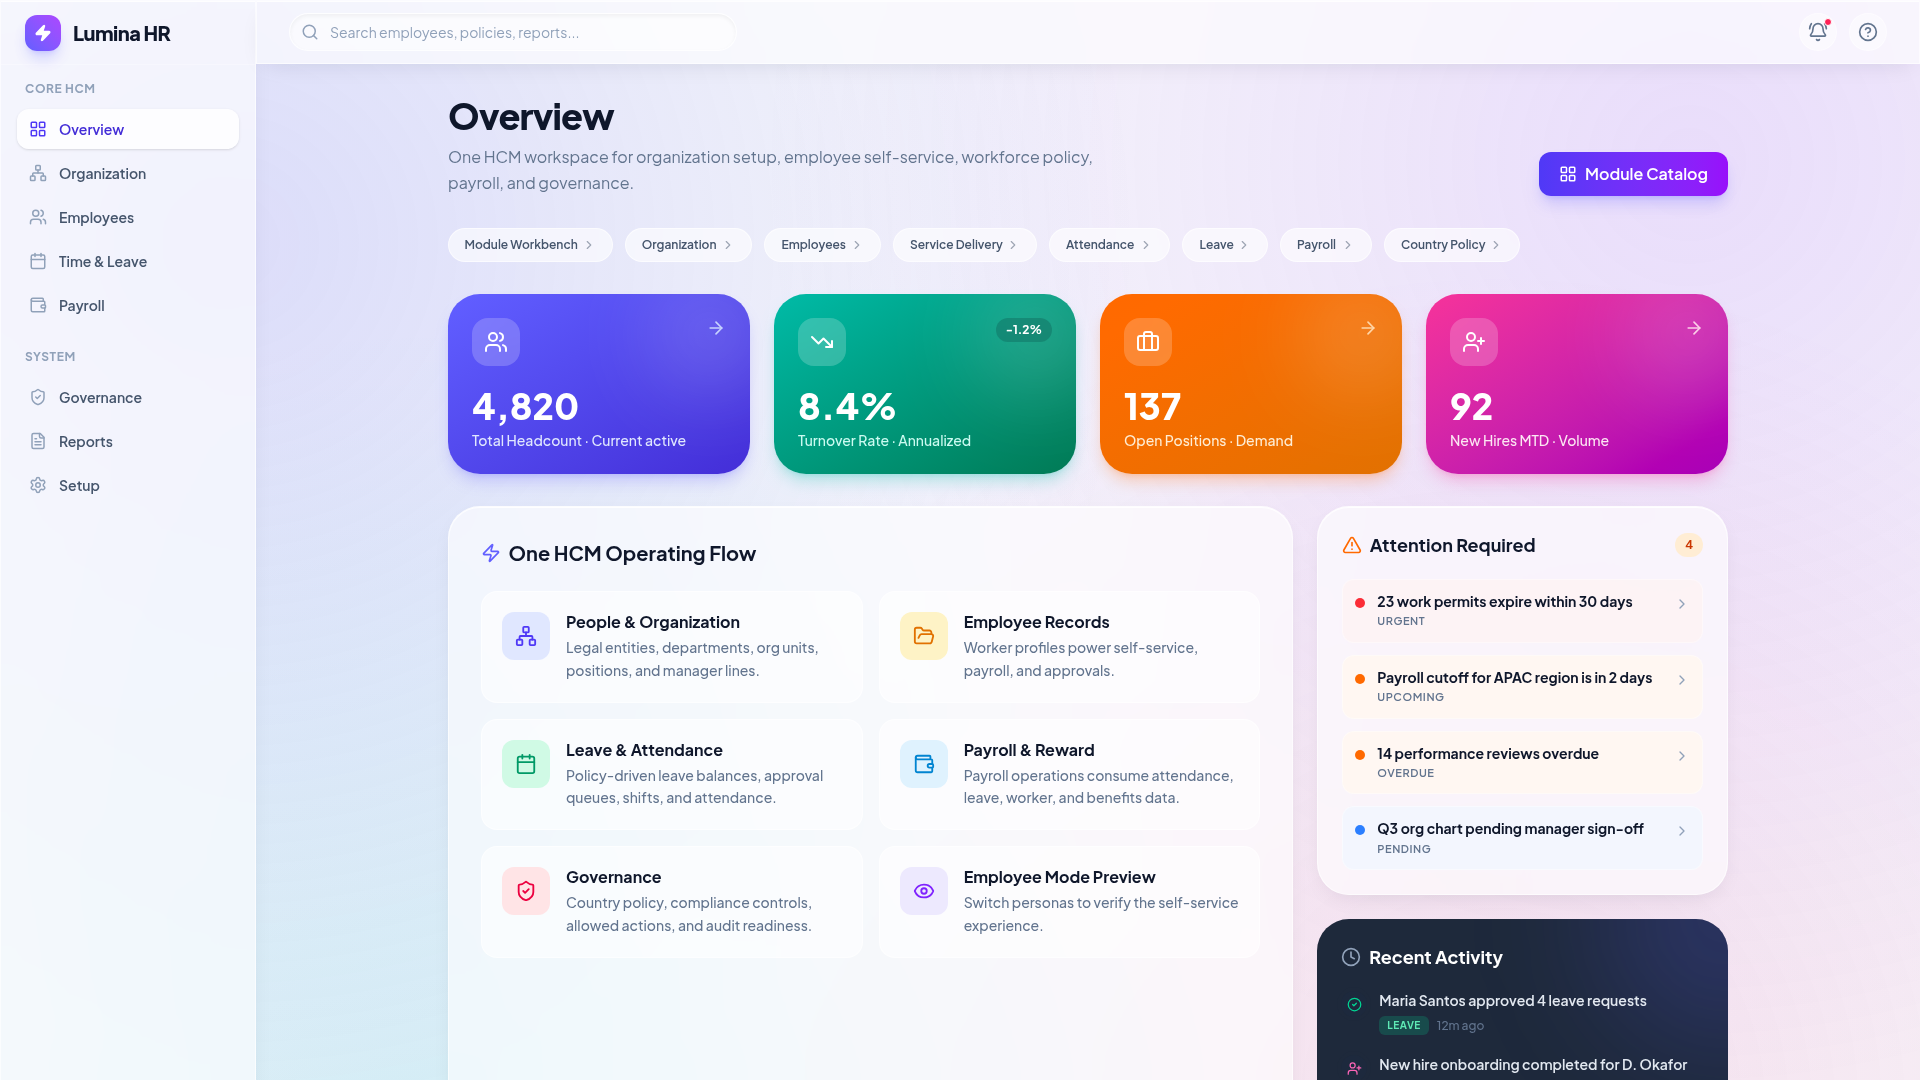
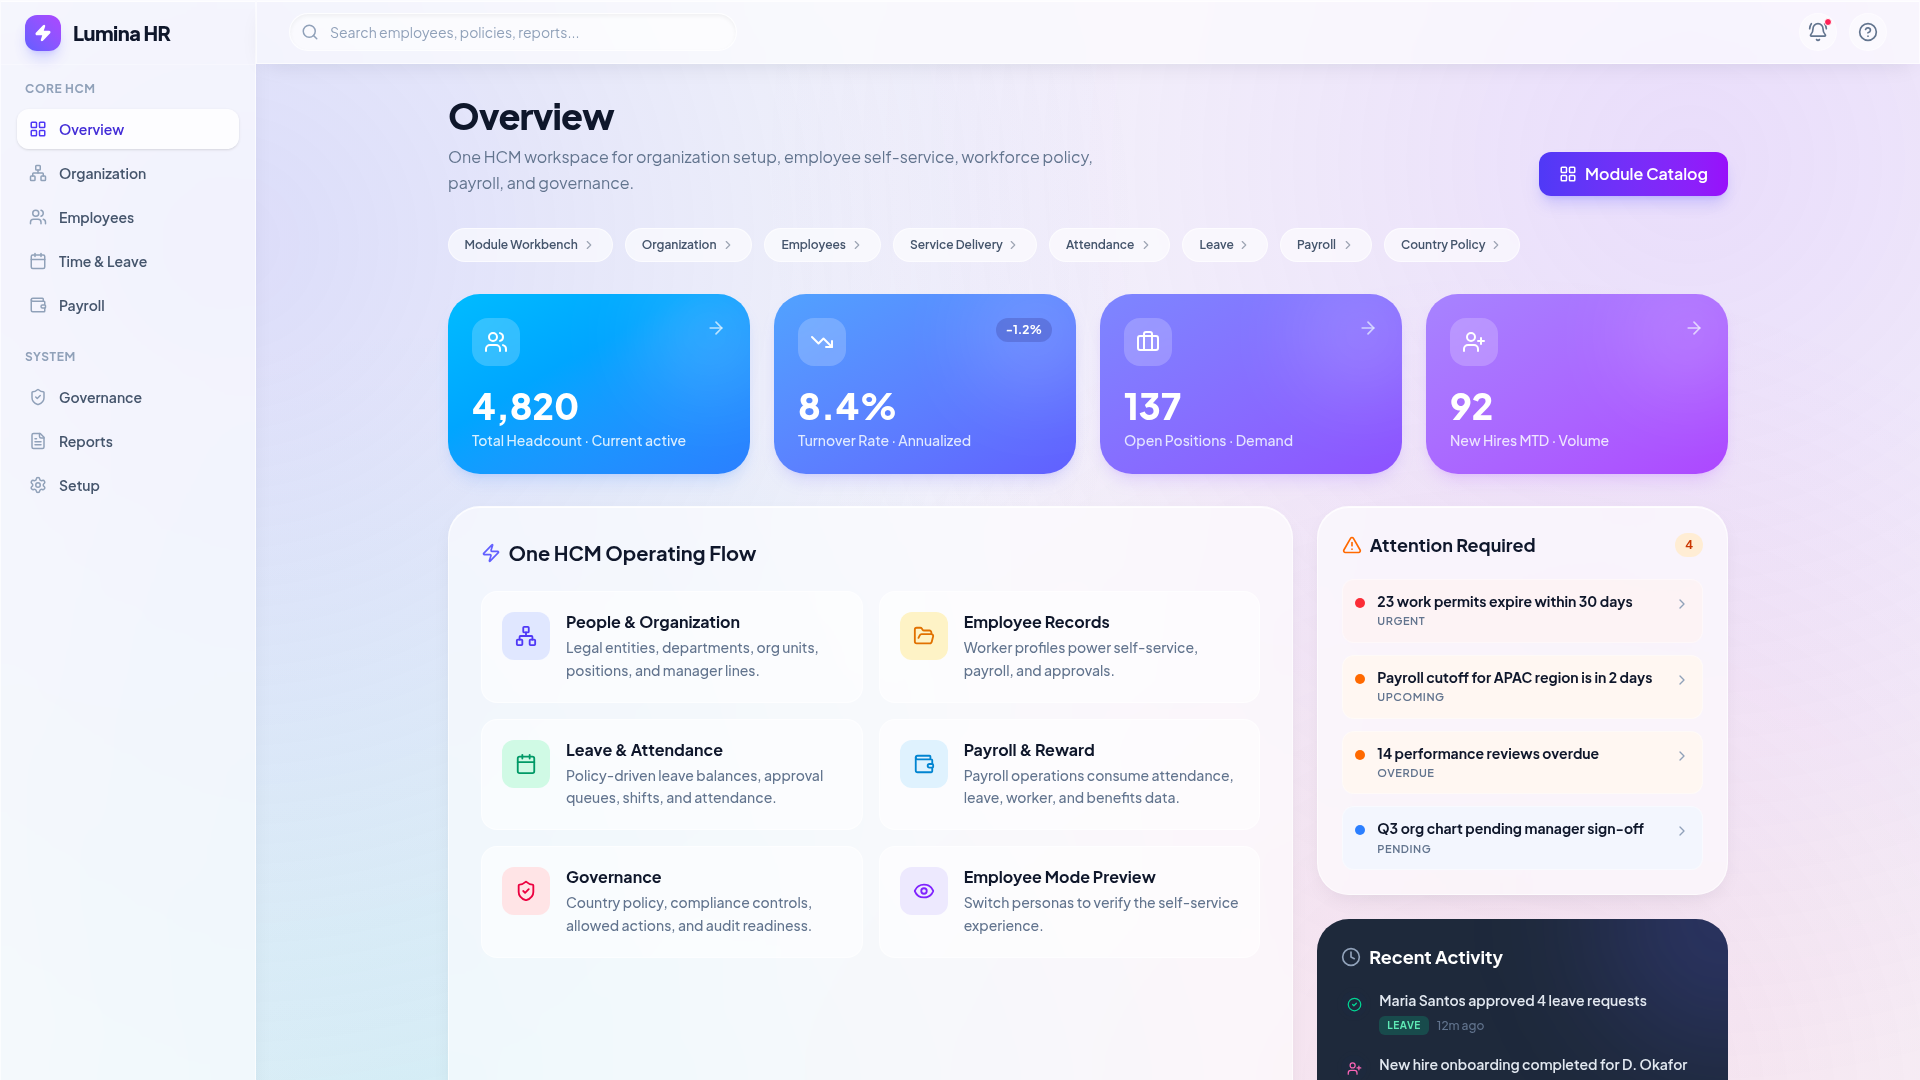
Soften the dashboard's color palette for a more eye-friendly look
Update the color gradients and text colors for the KPI tiles in the Fusion dashboard to use a more harmonious and less saturated palette.

Replit-Commit-Author: Agent
Replit-Commit-Session-Id: 4e185bfa-7984-477e-87ea-a35de27cbb4c
Replit-Commit-Checkpoint-Type: full_checkpoint
Replit-Commit-Event-Id: 5c5f2250-ea1b-4446-b691-bfeea552a87b
Replit-Commit-Screenshot-Url: https://storage.googleapis.com/screenshot-production-us-central1/4ba3be44-b2b7-437a-b9c0-b3eb791af892/4e185bfa-7984-477e-87ea-a35de27cbb4c/UuCX2g5
Replit-Helium-Checkpoint-Created: true

Changed region(s): [[0.2188, 0.275, 0.9062, 0.4583]]

diff --git a/artifacts/mockup-sandbox/src/components/mockups/hr-dashboard/Fusion.tsx b/artifacts/mockup-sandbox/src/components/mockups/hr-dashboard/Fusion.tsx
@@ -213,67 +213,67 @@ export function Fusion() {
             {/* Vivid bento KPI tiles (Bento) */}
             <div className="grid grid-cols-1 md:grid-cols-2 xl:grid-cols-4 gap-6">
               {/* KPI 1 */}
-              <div className="bg-gradient-to-br from-indigo-500 to-indigo-700 text-white rounded-[2rem] p-6 fusion-hover flex flex-col justify-between h-[180px] shadow-lg shadow-indigo-500/25 relative overflow-hidden group">
+              <div className="bg-gradient-to-br from-sky-400 to-blue-500 text-white rounded-[2rem] p-6 fusion-hover flex flex-col justify-between h-[180px] shadow-lg shadow-blue-500/15 relative overflow-hidden group">
                 <div className="absolute -right-6 -top-6 w-32 h-32 bg-white/15 rounded-full blur-2xl group-hover:scale-150 transition-transform duration-500" />
                 <div className="flex justify-between items-start relative z-10">
                   <div className="p-3 bg-white/20 rounded-2xl backdrop-blur-sm">
                     <Users size={24} />
                   </div>
-                  <ArrowRight size={20} className="text-indigo-200" />
+                  <ArrowRight size={20} className="text-sky-100/80" />
                 </div>
                 <div className="relative z-10">
                   <div className="text-4xl font-extrabold mb-1">4,820</div>
-                  <div className="text-indigo-100 text-sm font-medium">
+                  <div className="text-sky-50/90 text-sm font-medium">
                     Total Headcount · Current active
                   </div>
                 </div>
               </div>
               {/* KPI 2 */}
-              <div className="bg-gradient-to-br from-teal-500 to-emerald-700 text-white rounded-[2rem] p-6 fusion-hover flex flex-col justify-between h-[180px] shadow-lg shadow-teal-500/25 relative overflow-hidden group">
+              <div className="bg-gradient-to-br from-blue-400 to-indigo-500 text-white rounded-[2rem] p-6 fusion-hover flex flex-col justify-between h-[180px] shadow-lg shadow-indigo-500/15 relative overflow-hidden group">
                 <div className="absolute -right-6 -top-6 w-32 h-32 bg-white/15 rounded-full blur-2xl group-hover:scale-150 transition-transform duration-500" />
                 <div className="flex justify-between items-start relative z-10">
                   <div className="p-3 bg-white/20 rounded-2xl backdrop-blur-sm">
                     <TrendingDown size={24} />
                   </div>
-                  <div className="px-2.5 py-1 bg-teal-900/30 rounded-full text-xs font-bold backdrop-blur-sm">
+                  <div className="px-2.5 py-1 bg-indigo-900/25 rounded-full text-xs font-bold backdrop-blur-sm">
                     -1.2%
                   </div>
                 </div>
                 <div className="relative z-10">
                   <div className="text-4xl font-extrabold mb-1">8.4%</div>
-                  <div className="text-teal-100 text-sm font-medium">
+                  <div className="text-blue-50/90 text-sm font-medium">
                     Turnover Rate · Annualized
                   </div>
                 </div>
               </div>
               {/* KPI 3 */}
-              <div className="bg-gradient-to-br from-orange-500 to-amber-600 text-white rounded-[2rem] p-6 fusion-hover flex flex-col justify-between h-[180px] shadow-lg shadow-orange-500/25 relative overflow-hidden group">
+              <div className="bg-gradient-to-br from-indigo-400 to-violet-500 text-white rounded-[2rem] p-6 fusion-hover flex flex-col justify-between h-[180px] shadow-lg shadow-violet-500/15 relative overflow-hidden group">
                 <div className="absolute -right-6 -top-6 w-32 h-32 bg-white/15 rounded-full blur-2xl group-hover:scale-150 transition-transform duration-500" />
                 <div className="flex justify-between items-start relative z-10">
                   <div className="p-3 bg-white/20 rounded-2xl backdrop-blur-sm">
                     <Briefcase size={24} />
                   </div>
-                  <ArrowRight size={20} className="text-orange-200" />
+                  <ArrowRight size={20} className="text-indigo-100/80" />
                 </div>
                 <div className="relative z-10">
                   <div className="text-4xl font-extrabold mb-1">137</div>
-                  <div className="text-orange-100 text-sm font-medium">
+                  <div className="text-indigo-50/90 text-sm font-medium">
                     Open Positions · Demand
                   </div>
                 </div>
               </div>
               {/* KPI 4 */}
-              <div className="bg-gradient-to-br from-pink-500 to-fuchsia-700 text-white rounded-[2rem] p-6 fusion-hover flex flex-col justify-between h-[180px] shadow-lg shadow-pink-500/25 relative overflow-hidden group">
+              <div className="bg-gradient-to-br from-violet-400 to-purple-500 text-white rounded-[2rem] p-6 fusion-hover flex flex-col justify-between h-[180px] shadow-lg shadow-purple-500/15 relative overflow-hidden group">
                 <div className="absolute -right-6 -top-6 w-32 h-32 bg-white/15 rounded-full blur-2xl group-hover:scale-150 transition-transform duration-500" />
                 <div className="flex justify-between items-start relative z-10">
                   <div className="p-3 bg-white/20 rounded-2xl backdrop-blur-sm">
                     <UserPlus size={24} />
                   </div>
-                  <ArrowRight size={20} className="text-pink-200" />
+                  <ArrowRight size={20} className="text-violet-100/80" />
                 </div>
                 <div className="relative z-10">
                   <div className="text-4xl font-extrabold mb-1">92</div>
-                  <div className="text-pink-100 text-sm font-medium">
+                  <div className="text-violet-50/90 text-sm font-medium">
                     New Hires MTD · Volume
                   </div>
                 </div>
